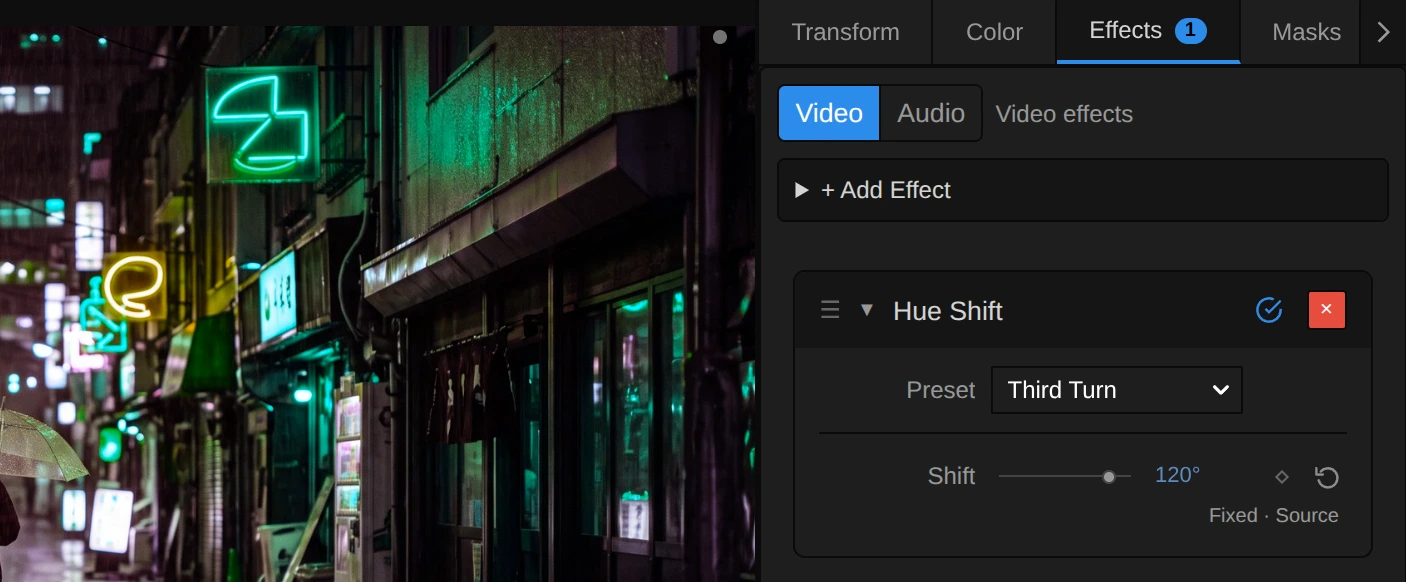
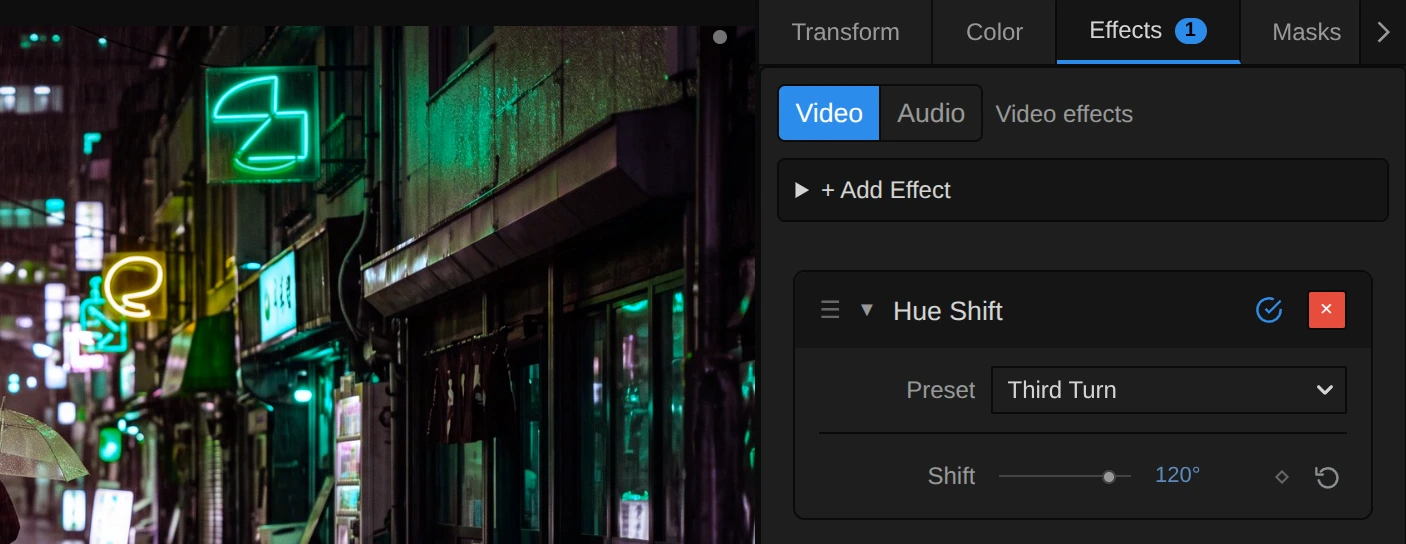
docs(hue-shift): inspector picture re-shot without the idle Fixed · Source line (checked: docsSiteSync, effectDocsCatalog, docsMediaRecipes)
Claude-Session: https://claude.ai/code/session_01SPCZUmow7FhgFsrvju87Zb

diff --git a/docs/Features/effects/hue-shift.md b/docs/Features/effects/hue-shift.md
@@ -44,12 +44,12 @@ Pick one in the **Preset** row of the effect card. It sets Shift in one undo ste
 
 ![Properties, Effects with a Hue Shift card: the Preset menu showing Third Turn and Shift at 120°, beside a strip of the preview with the night street, its pink sign turned yellow and its orange sign green](../assets/effects/editor/hue-shift-inspector.webp)
 
-<svg class="docs-shot-overlay" viewBox="0 0 1017 421" aria-hidden="true" focusable="false">
+<svg class="docs-shot-overlay" viewBox="0 0 1017 393" aria-hidden="true" focusable="false">
 <defs><marker id="hue-shift-inspector-arrow" viewBox="0 0 10 10" refX="8" refY="5" markerWidth="5" markerHeight="5" orient="auto-start-reverse"><path d="M 0 0 L 10 5 L 0 10 Z" fill="#ffd54a" /></marker></defs>
-<path class="docs-shot-arrow" d="M565 282 L649 282" marker-end="url(#hue-shift-inspector-arrow)" />
-<circle class="docs-shot-number" cx="565" cy="282" r="18" /><text x="565" y="282" class="docs-shot-number-text">1</text>
-<path class="docs-shot-arrow" d="M581 344 L665 344" marker-end="url(#hue-shift-inspector-arrow)" />
-<circle class="docs-shot-number" cx="581" cy="344" r="18" /><text x="581" y="344" class="docs-shot-number-text">2</text>
+<path class="docs-shot-arrow" d="M565 281 L649 281" marker-end="url(#hue-shift-inspector-arrow)" />
+<circle class="docs-shot-number" cx="565" cy="281" r="18" /><text x="565" y="281" class="docs-shot-number-text">1</text>
+<path class="docs-shot-arrow" d="M581 343 L665 343" marker-end="url(#hue-shift-inspector-arrow)" />
+<circle class="docs-shot-number" cx="581" cy="343" r="18" /><text x="581" y="343" class="docs-shot-number-text">2</text>
 </svg>
 
 </div>
